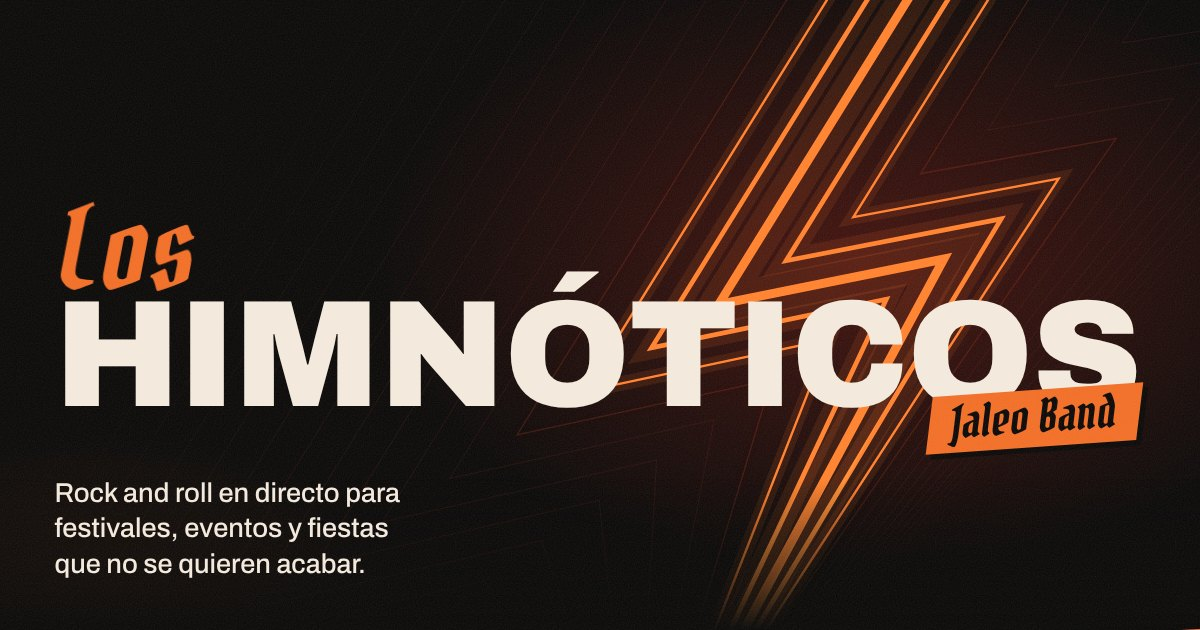
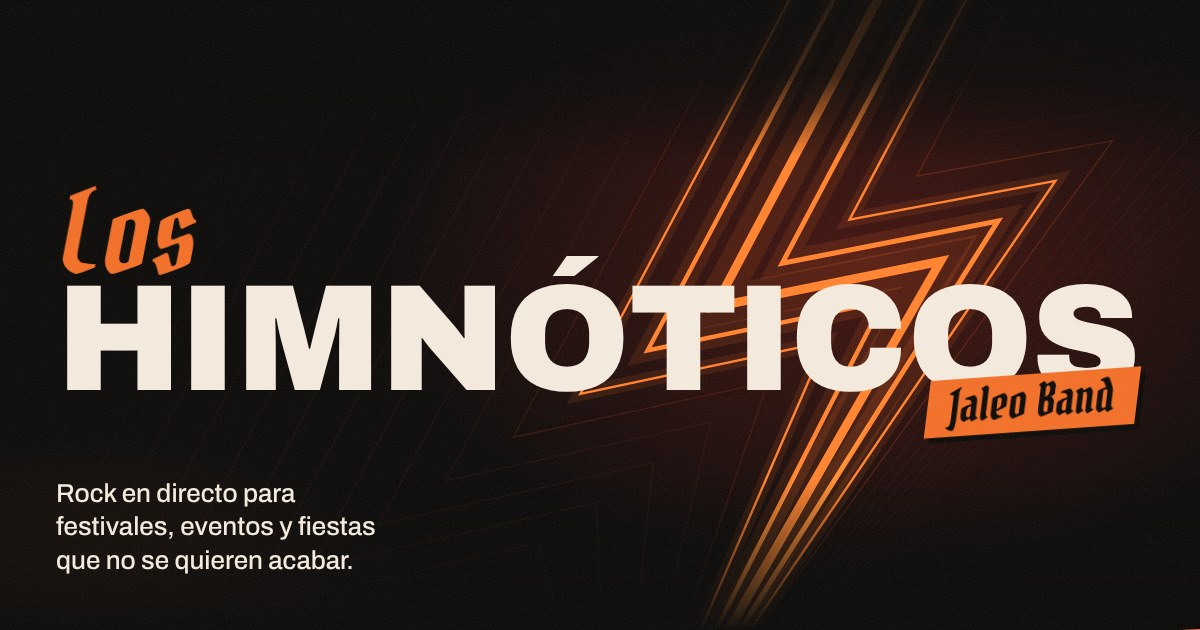
Aligerar el hero, quitar el sello giratorio y decir «rock»
- Hero: vuelve a un único subtítulo corto y se quita la línea de
  escenarios que lo recargaba.
- «Rock and roll» pasa a «rock» en el subtítulo, la cinta, la
  descripción para buscadores, los datos estructurados y la imagen para
  compartir, que se regenera con el texto nuevo.
- Manifiesto: se elimina el sello giratorio y el texto vuelve a ser un
  solo párrafo.

Claude-Session: https://claude.ai/code/session_01XhQTwmJDki9wLf8jtAVNbw

diff --git a/index.html b/index.html
@@ -4,7 +4,7 @@
   <meta charset="utf-8">
   <meta name="viewport" content="width=device-width, initial-scale=1">
   <title>Los Himnóticos · Banda de rock para festivales y eventos</title>
-  <meta name="description" content="Los Himnóticos, Jaleo Band: banda de rock and roll en directo desde Valencia para festivales, eventos de empresa y fiestas privadas. Pide fecha y presupuesto.">
+  <meta name="description" content="Los Himnóticos, Jaleo Band: banda de rock en directo desde Valencia para festivales, eventos de empresa y fiestas privadas. Pide fecha y presupuesto.">
   <!-- Dirección oficial de la página. Si se pasa a un dominio propio, cambiarla aquí, en og:url, en og:image,
        en los datos estructurados de más abajo y en sitemap.xml. -->
   <link rel="canonical" href="https://soyjuanmr-create.github.io/himnoticos/">
@@ -13,7 +13,7 @@
   <meta name="theme-color" content="#0a0908">
   <meta property="og:type" content="website">
   <meta property="og:title" content="Los Himnóticos · Jaleo Band">
-  <meta property="og:description" content="Rock and roll en directo para festivales, eventos y fiestas que no se quieren acabar.">
+  <meta property="og:description" content="Rock en directo para festivales, eventos y fiestas que no se quieren acabar.">
   <meta property="og:locale" content="es_ES">
   <meta property="og:url" content="https://soyjuanmr-create.github.io/himnoticos/">
   <meta property="og:image" content="https://soyjuanmr-create.github.io/himnoticos/assets/img/og.jpg">
@@ -33,7 +33,7 @@
     "@type": "MusicGroup",
     "name": "Los Himnóticos",
     "alternateName": "Los Himnóticos Jaleo Band",
-    "description": "Banda de rock and roll en directo para festivales, eventos de empresa y fiestas privadas.",
+    "description": "Banda de rock en directo para festivales, eventos de empresa y fiestas privadas.",
     "genre": "Rock",
     "url": "https://soyjuanmr-create.github.io/himnoticos/",
     "image": "https://soyjuanmr-create.github.io/himnoticos/assets/img/og.jpg",
@@ -122,10 +122,7 @@
       </h1>
 
       <div class="hero__foot">
-        <div class="hero__lede">
-          <p class="hero__sub" data-in style="--d:1s">Rock and roll en directo: los himnos de siempre para festivales, eventos y fiestas que no se quieren acabar.</p>
-          <p class="hero__proof" data-in style="--d:1.2s"><span>Ya ha habido jaleo en</span> <strong>Roig Arena · Love to Rock · Hard Rock Cafe</strong></p>
-        </div>
+        <p class="hero__sub" data-in style="--d:1s">Rock en directo para festivales, eventos y fiestas que no se quieren acabar.</p>
         <div class="hero__cta" data-in style="--d:1.1s">
           <a class="btn" href="#contratacion" data-magnetic>
             <span class="btn__label">Contrátanos</span>
@@ -146,7 +143,7 @@
       <div class="tape tape--b">
         <div class="tape__track" data-marquee="1" data-speed="46">
           <span>Himnos a gritos</span><svg class="i"><use href="#i-bolt"/></svg>
-          <span>Rock and roll en directo</span><svg class="i"><use href="#i-bolt"/></svg>
+          <span>Rock en directo</span><svg class="i"><use href="#i-bolt"/></svg>
           <span>Jaleo Band</span><svg class="i"><use href="#i-bolt"/></svg>
         </div>
       </div>
@@ -163,20 +160,7 @@
     <!-- MANIFIESTO -->
     <section class="manifesto wrap" id="manifiesto">
       <p class="label" data-reveal><b>01</b> Manifiesto</p>
-      <!-- El sello cierra el manifiesto: va junto a la última frase, no suelto en una esquina -->
-      <div class="manifesto__text" data-scrolltext>
-        <p>No somos música de fondo. Somos los <em class="goth">himnos</em> que te sabes de memoria, tocados en directo.</p>
-        <div class="manifesto__end">
-          <p>Tú pones la fiesta. Nosotros, <em class="goth">el jaleo.</em></p>
-          <div class="badge" aria-hidden="true">
-            <svg class="badge__ring" viewBox="0 0 200 200">
-              <defs><path id="badge-circle" d="M100 100m-78 0a78 78 0 1 1 156 0a78 78 0 1 1-156 0"/></defs>
-              <text><textPath href="#badge-circle" textLength="486" lengthAdjust="spacing">ROCK AND ROLL • JALEO BAND • ROCK AND ROLL • JALEO BAND •</textPath></text>
-            </svg>
-            <svg class="badge__bolt"><use href="#logo-bolt-mini"/></svg>
-          </div>
-        </div>
-      </div>
+      <p class="manifesto__text" data-scrolltext>No somos música de fondo. Somos los <em class="goth">himnos</em> que te sabes de memoria, tocados en directo. Tú pones la fiesta. Nosotros, <em class="goth">el jaleo.</em></p>
     </section>
 
     <!-- EN DIRECTO -->

diff --git a/css/styles.css b/css/styles.css
@@ -373,15 +373,7 @@ button, input, select, textarea { font: inherit; color: inherit; }
 @media (min-width: 761px) {
   .hero__foot { margin-bottom: auto; }
 }
-.hero__sub { max-width: 40ch; font-size: clamp(1.05rem, 1.55vw, 1.45rem); line-height: 1.3; }
-/* Escenarios ya pisados, a la vista sin esperar al rótulo en movimiento de más abajo */
-.hero__proof { margin-top: clamp(.9rem, 1.4vw, 1.3rem); }
-.hero__proof span {
-  display: block;
-  font-size: .75rem; font-weight: 600; font-stretch: 112%;
-  letter-spacing: .2em; text-transform: uppercase; color: var(--muted);
-}
-.hero__proof strong { display: block; margin-top: .3em; font-size: clamp(.9rem, 1.15vw, 1.05rem); font-weight: 700; }
+.hero__sub { max-width: 31ch; font-size: clamp(1.05rem, 1.55vw, 1.45rem); line-height: 1.3; text-wrap: balance; }
 .hero__cta { display: flex; align-items: center; gap: 1.6rem; flex: none; }
 
 .hero__hint {
@@ -401,8 +393,8 @@ button, input, select, textarea { font: inherit; color: inherit; }
 
 /* En vertical ancho (tablet) el rayo pasa por detrás del texto: un velo lo mantiene legible */
 @media (min-width: 761px) and (max-aspect-ratio: 1/1) {
-  .hero__lede { position: relative; }
-  .hero__lede::before {
+  .hero__sub { position: relative; }
+  .hero__sub::before {
     content: ""; position: absolute; inset: -3.5rem -6rem -3.5rem -4rem; z-index: -1;
     background: radial-gradient(closest-side, rgba(10, 9, 8, .94), rgba(10, 9, 8, .82) 62%, transparent);
   }
@@ -456,20 +448,6 @@ button, input, select, textarea { font: inherit; color: inherit; }
 .manifesto__text .goth { font-size: 1.1em; line-height: .9; }
 .js-ready .manifesto__text .w { opacity: .13; transition: opacity .4s linear; }
 .js-ready .manifesto__text .w.on { opacity: 1; }
-
-/* La última frase y el sello comparten fila: el sello queda pegado al cierre del manifiesto */
-.manifesto__end { display: flex; align-items: center; gap: clamp(.8rem, 2.4vw, 2.6rem); }
-.manifesto__end p { min-width: 0; }
-.badge {
-  position: relative; flex: none;
-  display: grid; place-items: center; overflow: hidden;
-  width: clamp(6.5rem, 10.5vw, 10rem); aspect-ratio: 1;
-  color: var(--cream);
-}
-.badge__ring { position: absolute; inset: 0; width: 100%; height: 100%; overflow: visible; animation: spin 18s linear infinite; }
-.badge__ring text { font: 700 13.5px var(--f-sans); font-stretch: 112%; letter-spacing: .04em; fill: currentColor; }
-.badge__bolt { width: 26%; height: 36%; color: var(--orange); }
-@keyframes spin { to { transform: rotate(360deg); } }
 
 /* ---------- La banda ---------- */
 .band { padding-block: clamp(3rem, 7vw, 7rem) clamp(4rem, 9vw, 8rem); }
@@ -917,11 +895,7 @@ html.is-locked { overflow: hidden; }
   .hero__name { font-stretch: 68%; font-size: 17.6vw; transform: scaleY(1.2); transform-origin: bottom; }
   .hero__los { margin-bottom: .34em; }
   .hero__tag { margin-top: -.5em; }
-  .hero__foot { flex-direction: column; align-items: flex-start; gap: 1.2rem; margin-top: 3rem; }
-  /* Orden en móvil: subtítulo, botón y, debajo, los escenarios */
-  .hero__lede { display: contents; }
-  .hero__sub { max-width: none; }
-  .hero__proof { order: 3; margin-top: 0; }
+  .hero__foot { flex-direction: column; align-items: flex-start; gap: 1.4rem; margin-top: 3.4rem; }
   .hero__cta { flex-wrap: wrap; gap: .9rem 1.1rem; max-width: 100%; }
   .hero__cta .btn { padding-inline: 1.25em; }
 

diff --git a/js/main.js b/js/main.js
@@ -649,8 +649,8 @@
               words.push(s);
             });
             n.replaceWith(frag);
-          } else if (n.nodeType === 1 && n.getAttribute('aria-hidden') !== 'true') {
-            walk(n);   // lo decorativo (el sello) se deja como está
+          } else if (n.nodeType === 1) {
+            walk(n);
           }
         });
       };
